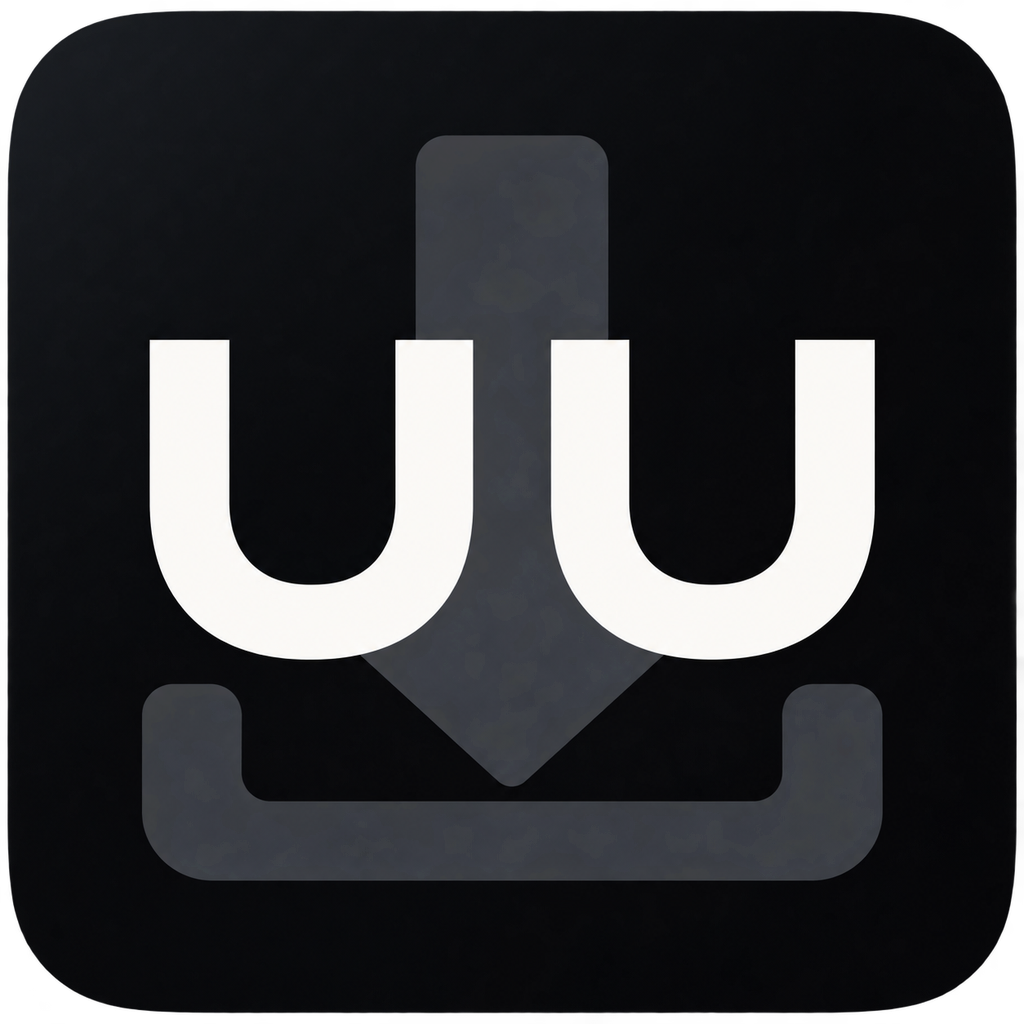
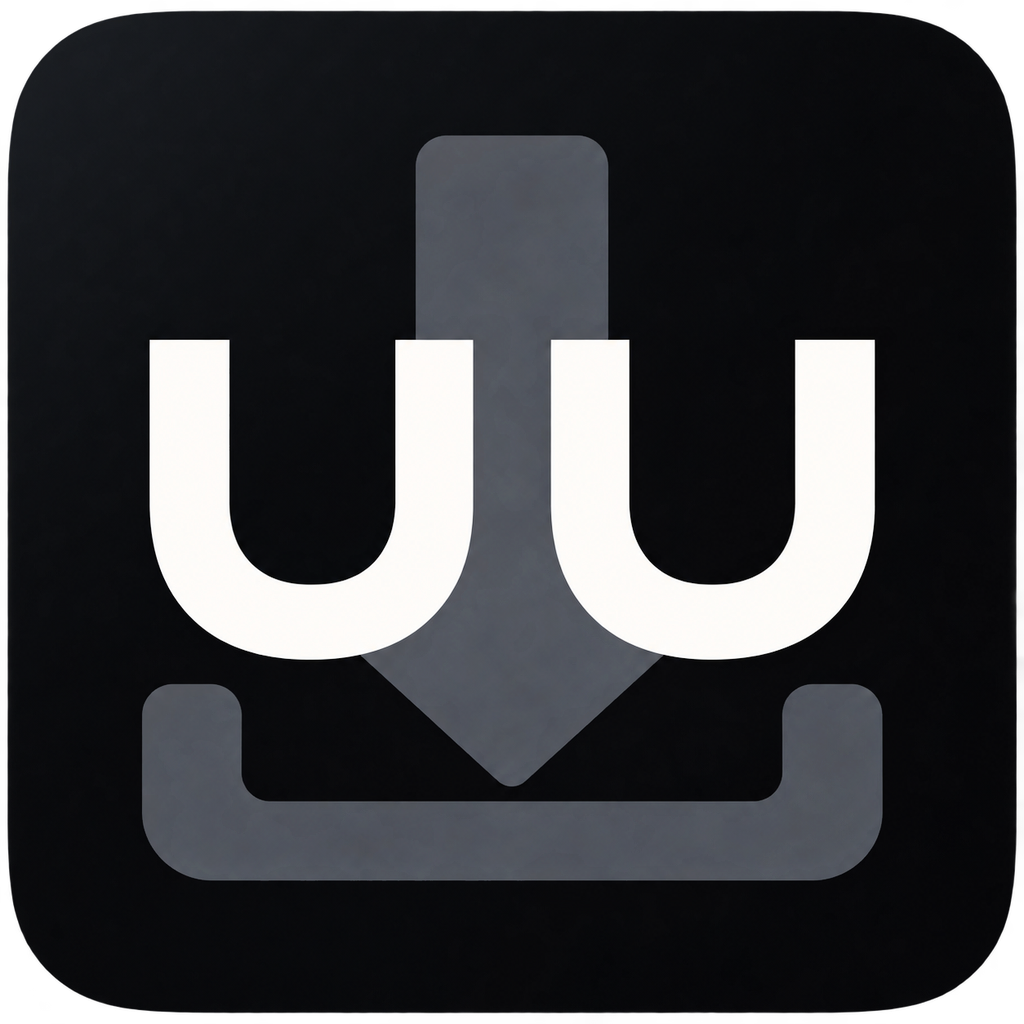
Lift the arrow out of the black
The approved art draws the download mark at luminance ~58 on a ~7 tile: texture at
1024, gone at 48dp. The build now lifts the charcoal toward ~90 while leaving the
letters white and the tile black — stronger for darker pixels, so the arrow and the
letters stay distinct. The source PNG is untouched.

Two bugs found on the way, both caught by checking the generated pixels rather than
the picture: 'most common colour' picked white for the adaptive background (this
art is textured, so the tile is spread over hundreds of values while the letters
sit in a few uniform ones — it now takes the median below the mark), and the first
lift was strong enough to make the arrow compete with the UU.

1.4.2 (versionCode 17).

Changed region(s): [[0.125, 0.125, 0.875, 0.875]]

diff --git a/icon/build_icon.py b/icon/build_icon.py
@@ -46,11 +46,21 @@ def load_source() -> Image.Image:
 
 
 def tile_colour(art: Image.Image) -> tuple[int, int, int]:
-    """The most common opaque colour is the tile, and the adaptive background should match it."""
-    arr = np.asarray(art)
-    opaque = arr[arr[:, :, 3] > 250][:, :3]
-    values, counts = np.unique(opaque, axis=0, return_counts=True)
-    return tuple(int(v) for v in values[counts.argmax()])
+    """
+    The tile's own colour, for the adaptive background.
+
+    Median of the pixels below the mark, not the most common exact colour: this art is subtly
+    textured, so its tile is spread over hundreds of near-identical values while the letters
+    sit in a few uniform bright ones — and "most common" picked white.
+    """
+    arr = np.asarray(art).astype(float)
+    rgb, alpha = arr[:, :, :3], arr[:, :, 3]
+    luminance = rgb.mean(axis=2)
+    body = (alpha > 250) & (luminance < 32)
+    if body.sum() == 0:
+        return (6, 6, 8)
+    median = np.median(rgb[body], axis=0)
+    return tuple(int(v) for v in median.round())
 
 
 def extract_mark(art: Image.Image) -> Image.Image:
@@ -76,6 +86,33 @@ def extract_mark(art: Image.Image) -> Image.Image:
     if box is None:
         raise SystemExit("the supplied art has no mark above the tile")
     return mark.crop(box)
+
+
+def lift_charcoal(art: Image.Image, strength: float = 0.55) -> Image.Image:
+    """
+    Lifts the arrow and tray out of the black.
+
+    The approved art draws them at luminance ~58 on a ~7 tile. That reads as texture at
+    1024 and disappears entirely at 48dp, where the icon actually lives. This raises the
+    charcoal toward ~105 while leaving the letters at white and the tile at black, so the
+    download mark is legible at launcher size without changing the drawing.
+
+    The lift is stronger for darker pixels, so the arrow brightens more than the letters and
+    the two stay distinct.
+    """
+    arr = np.asarray(art).astype(float)
+    rgb = arr[:, :, :3]
+    alpha = arr[:, :, 3] / 255.0
+    luminance = rgb.mean(axis=2)
+
+    mark = ((luminance > 32) & (alpha > 0.1)).astype(float)
+    factor = 1.0 + strength * 0.9 * (1.0 - luminance / 255.0)
+    lifted = np.clip(rgb * factor[:, :, None], 0, 255)
+
+    out = arr.copy()
+    blend = mark[:, :, None]
+    out[:, :, :3] = rgb * (1 - blend) + lifted * blend
+    return Image.fromarray(out.round().astype(np.uint8), "RGBA")
 
 
 def centre_on(layer_px: int, content: Image.Image, share: float) -> Image.Image:
@@ -104,7 +141,7 @@ def write(image: Image.Image, path: pathlib.Path, size: int, circle: bool = Fals
 
 
 def main() -> None:
-    art = load_source()
+    art = lift_charcoal(load_source())
     mark = extract_mark(art)
     background_colour = tile_colour(art)
     rounded = art.resize((1024, 1024), Image.LANCZOS)
